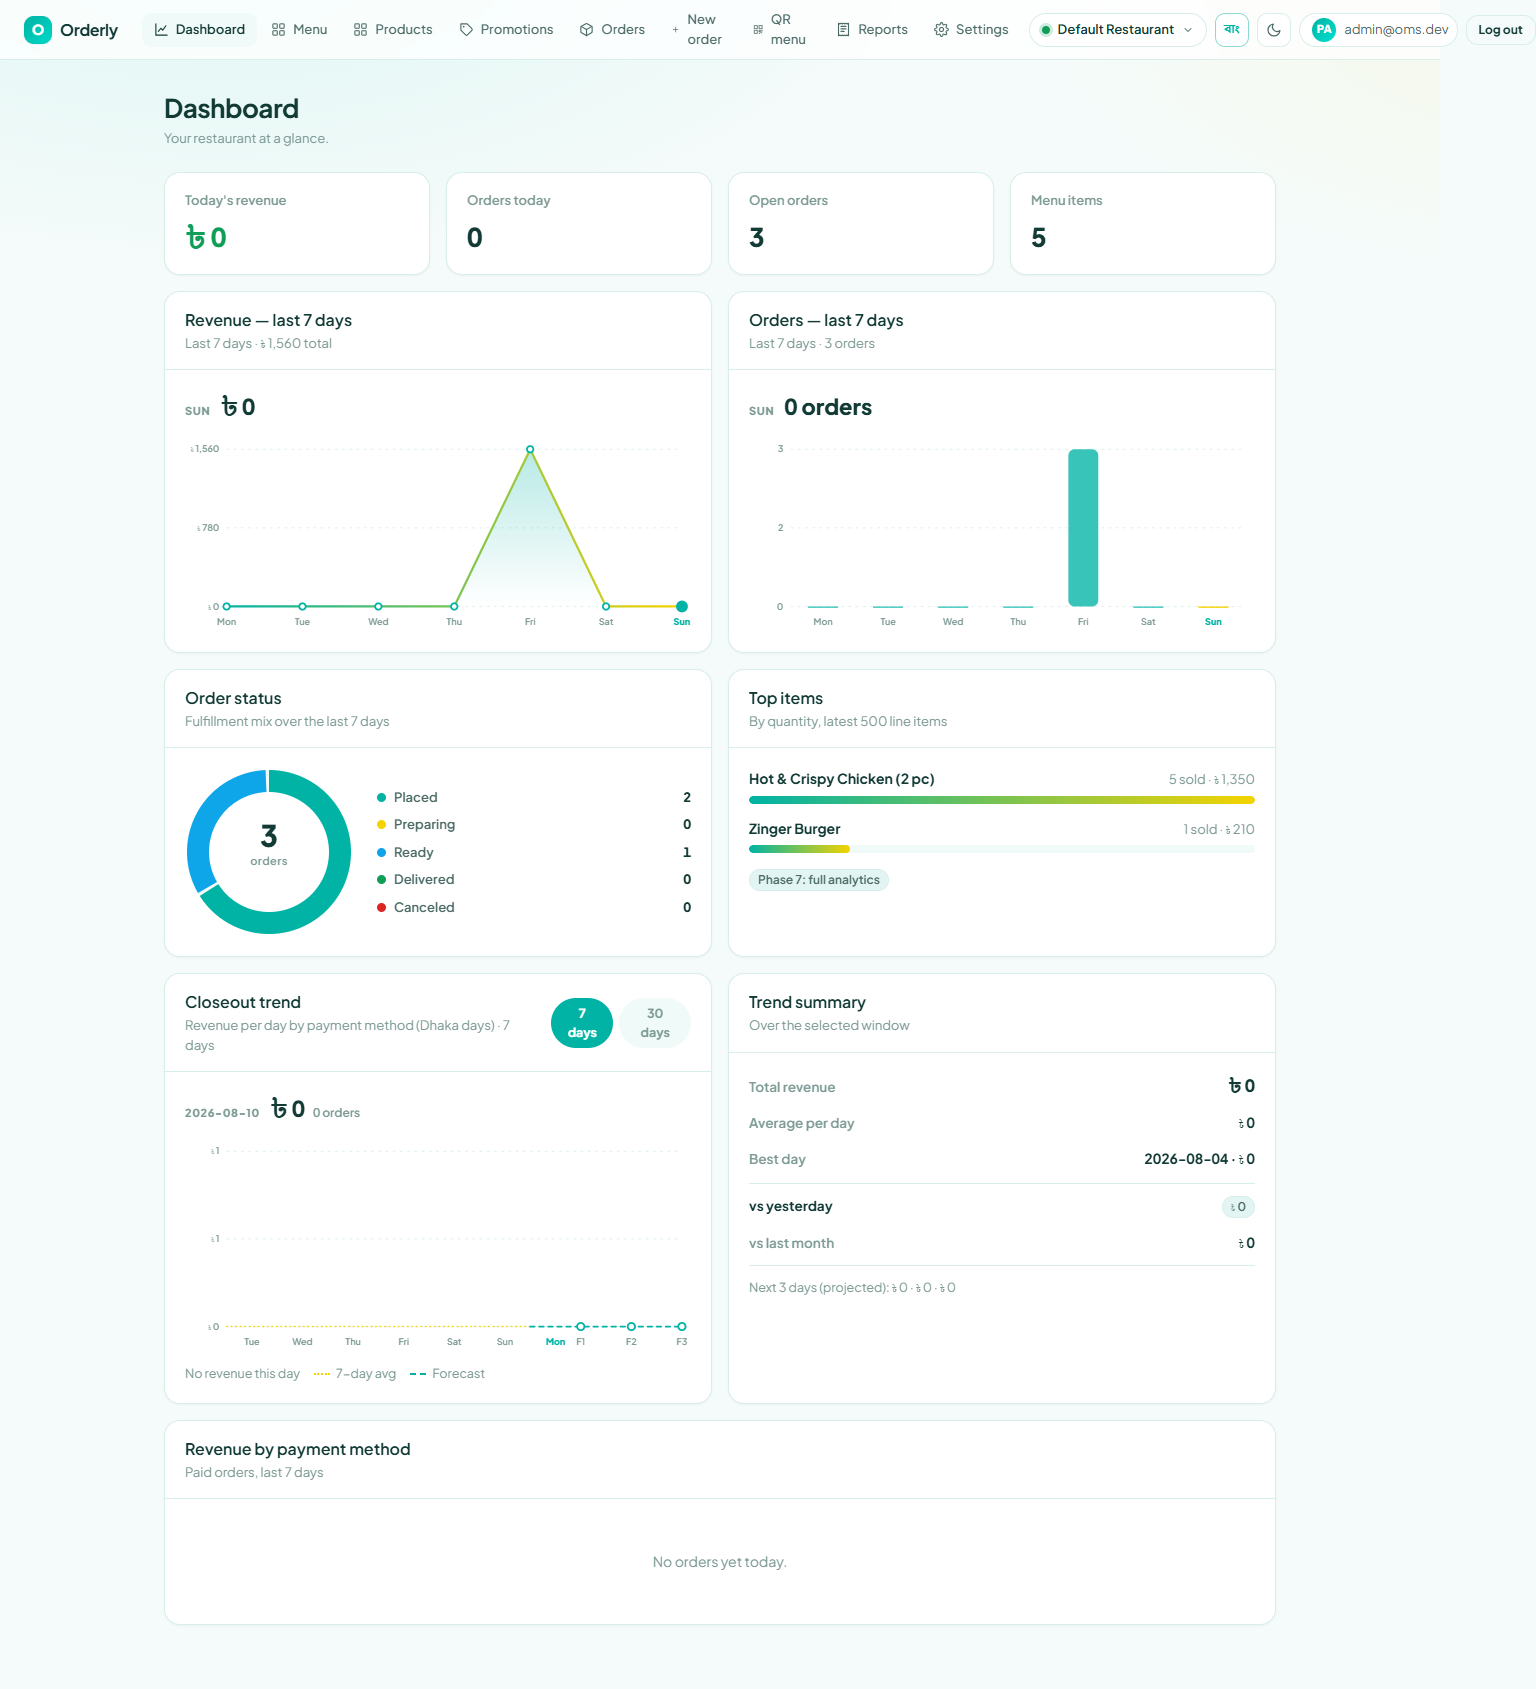
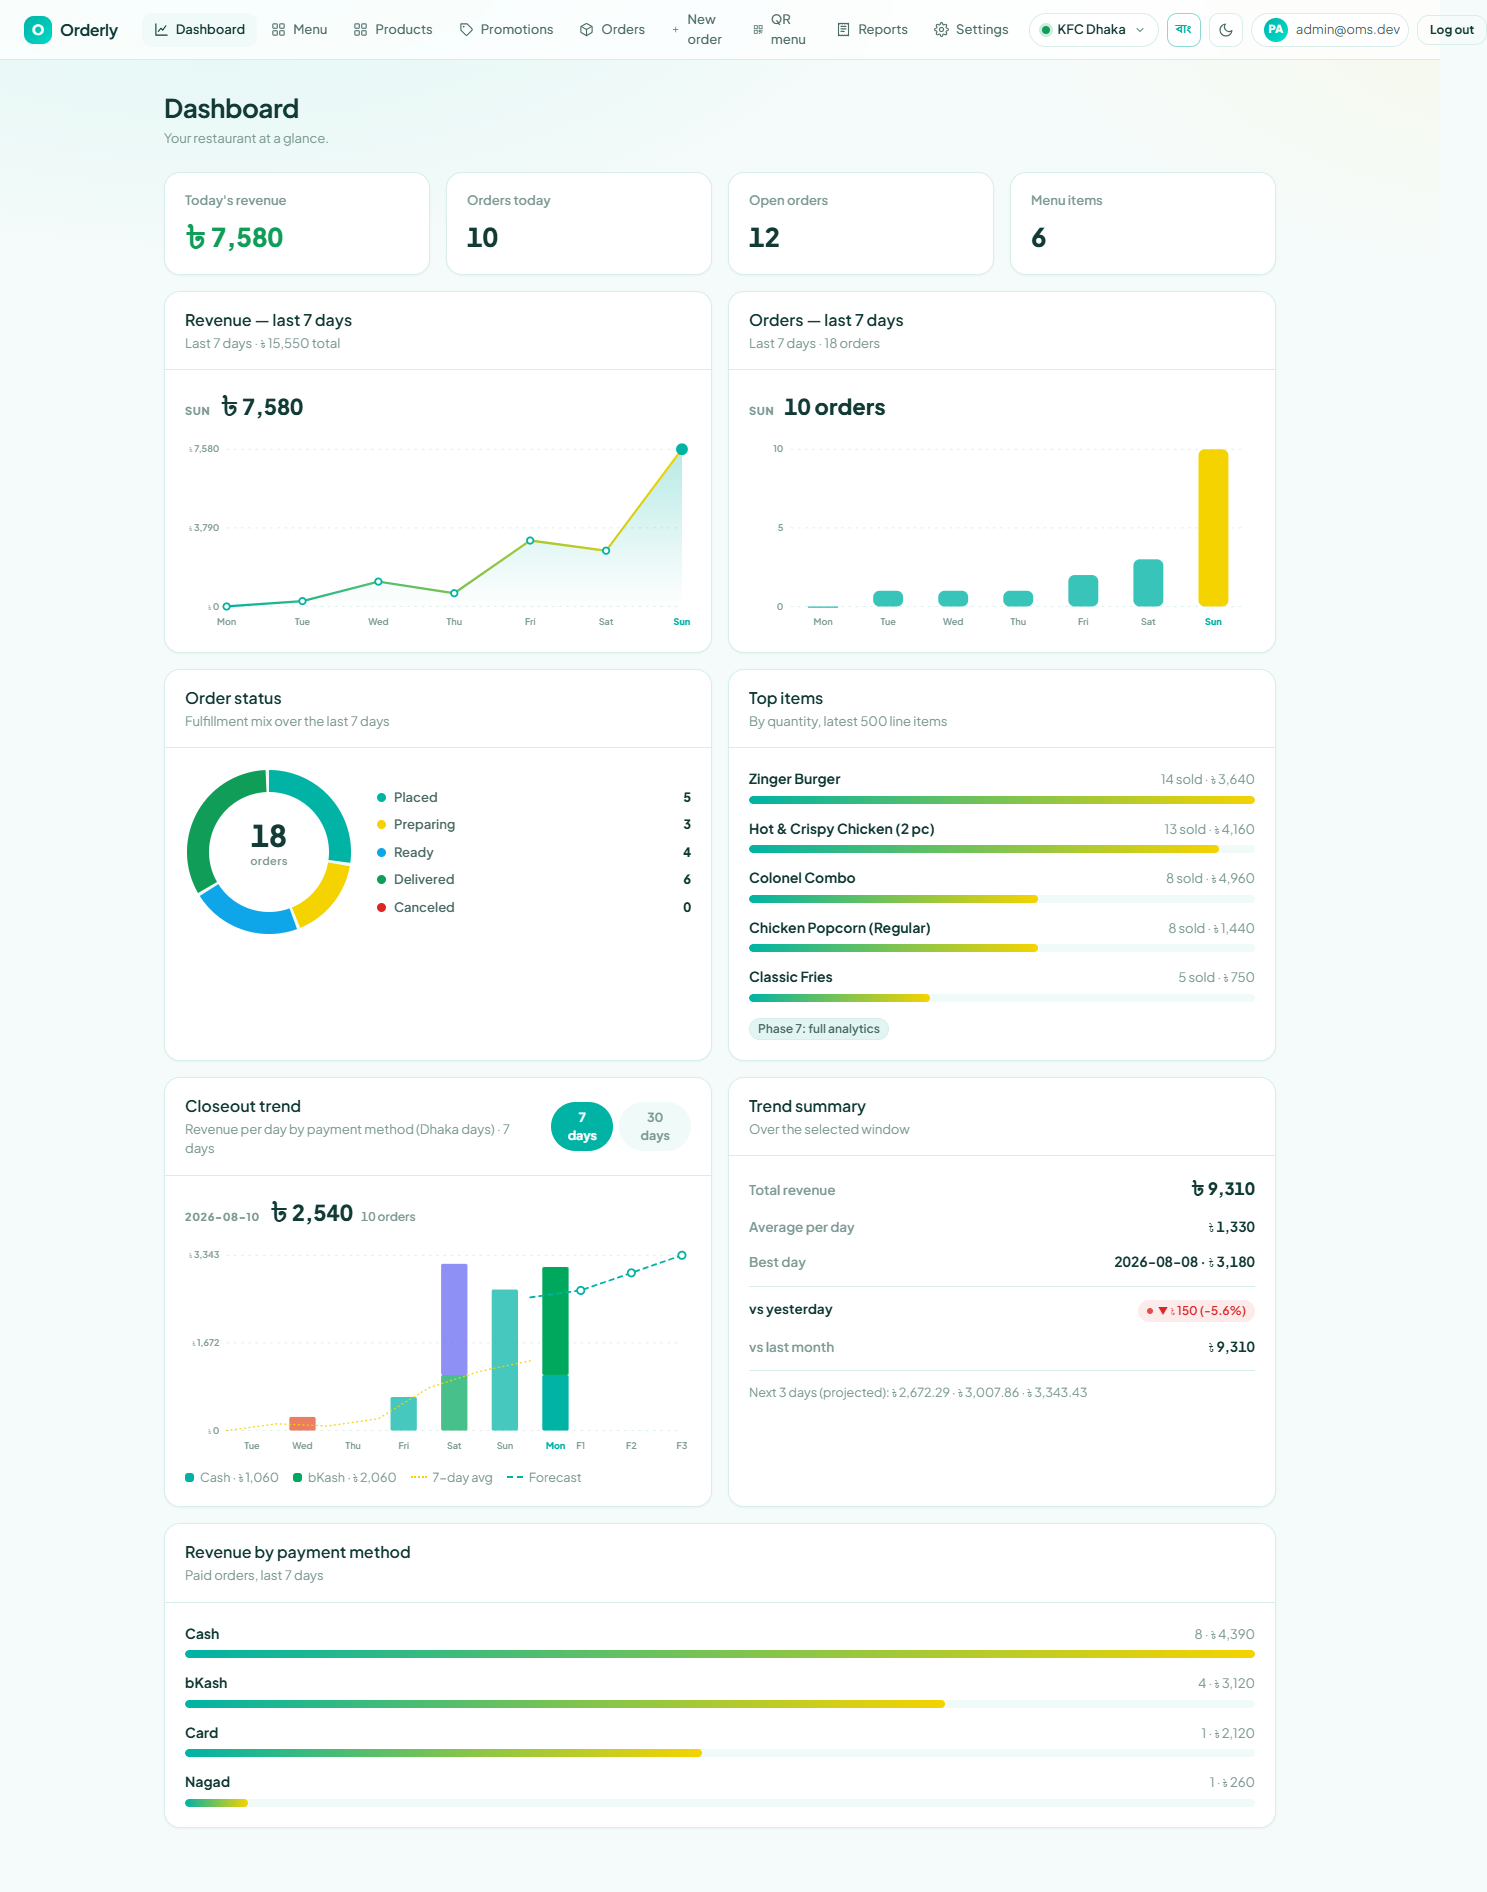
docs: Phase 6 payment screenshots — orders, invoice, split editor (#37)
Adds a "Phase 6 — Payments" screenshot gallery to the README (Orders with
Split/Partial badges + Refund + Invoice actions, VAT-aware order invoice
with linked payments, and the New Order split-payment editor) and extends
frontend/scripts/screenshots.mjs to capture them. The script now picks the
first data-rich workspace via the API so authenticated shots (dashboard,
reports, orders, invoice) are never empty.

🤖 Generated with Codebuff

diff --git a/README.md b/README.md
@@ -175,6 +175,13 @@ Customer storefront checkout (cart → order) · online payment **split payments
 | **Products — light mode** | **Products — dark mode** |
 | ![Products light](docs/screenshots/products-light.png) | ![Products dark](docs/screenshots/products-dark.png) |
 
+### Phase 6 — Payments (live captures)
+
+| | | |
+|---|---|---|
+| **Orders** — Split/Partial badges, ↩ Refund, 🧾 Invoice actions | **Order invoice** — per-item VAT split (NBR) + linked payments | **New Order** — split-payment editor (bKash ৳ + Cash ৳ per part) |
+| ![Orders — Phase 6](docs/screenshots/orders-phase6-light.png) | ![Invoice — Phase 6](docs/screenshots/invoice-phase6-light.png) | ![Split editor — Phase 6](docs/screenshots/neworder-split-light.png) |
+
 ---
 
 ## 🧱 Tech Stack
